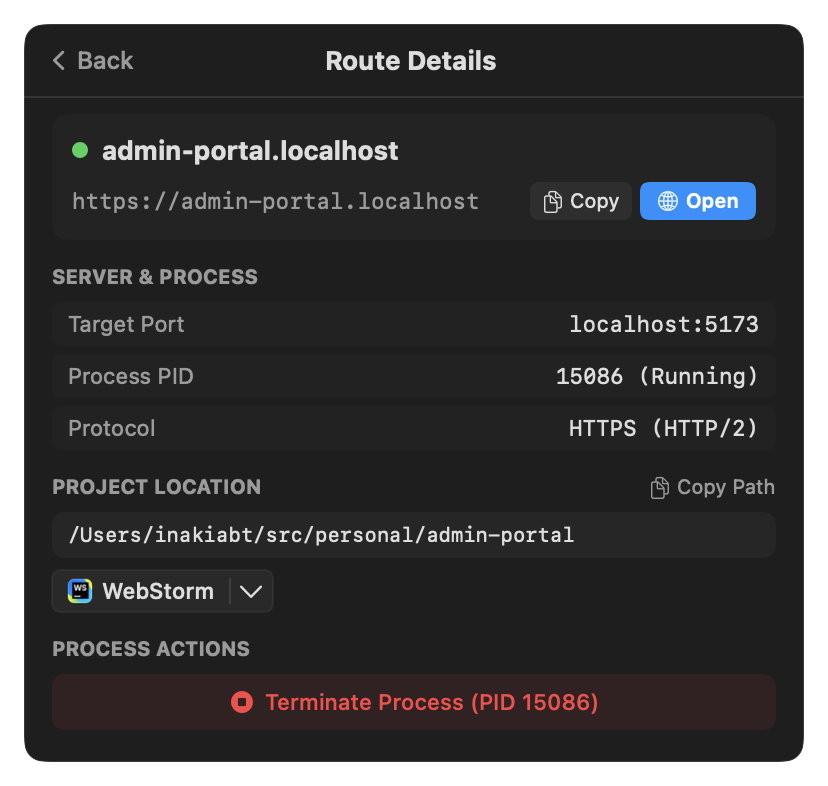
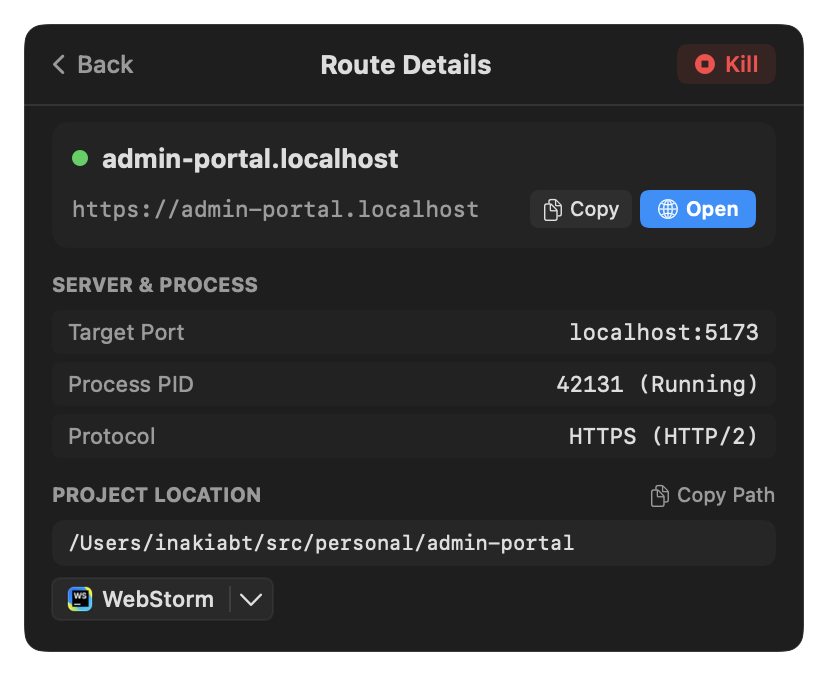
feat(ui): move kill button to header bar in route detail view

diff --git a/Sources/Portlessman/Views/RouteDetailView.swift b/Sources/Portlessman/Views/RouteDetailView.swift
@@ -35,9 +35,29 @@ struct RouteDetailView: View {
 
                 Spacer()
 
-                // Spacer to balance the back button
-                Color.clear
-                    .frame(width: 44, height: 16)
+                if route.pid > 0 {
+                    Button {
+                        store.killProcess(for: route)
+                        onBack()
+                    } label: {
+                        HStack(spacing: 4) {
+                            Image(systemName: "stop.circle.fill")
+                                .font(.system(size: 10))
+                            Text("Kill")
+                                .font(.system(size: 11, weight: .semibold))
+                        }
+                        .padding(.horizontal, 8)
+                        .padding(.vertical, 3)
+                        .background(Color.red.opacity(0.12))
+                        .foregroundStyle(Color.red)
+                        .cornerRadius(5)
+                    }
+                    .buttonStyle(.plain)
+                    .help("Kill process (PID \(route.pidString))")
+                } else {
+                    Color.clear
+                        .frame(width: 44, height: 16)
+                }
             }
             .padding(.horizontal, 14)
             .padding(.vertical, 10)
@@ -194,34 +214,6 @@ struct RouteDetailView: View {
                                 OpenInEditorMenu(path: cwd)
                                 Spacer()
                             }
-                        }
-                    }
-
-                    // Process Actions (Kill Server)
-                    if route.pid > 0 {
-                        VStack(alignment: .leading, spacing: 6) {
-                            Text("PROCESS ACTIONS")
-                                .font(.system(size: 10, weight: .bold))
-                                .foregroundStyle(.secondary)
-
-                            Button {
-                                store.killProcess(for: route)
-                                onBack()
-                            } label: {
-                                HStack(spacing: 5) {
-                                    Image(systemName: "stop.circle.fill")
-                                        .font(.system(size: 11))
-                                    Text("Terminate Process (PID \(route.pidString))")
-                                        .font(.system(size: 11, weight: .medium))
-                                }
-                                .padding(.horizontal, 10)
-                                .padding(.vertical, 7)
-                                .frame(maxWidth: .infinity)
-                                .background(Color.red.opacity(0.09))
-                                .foregroundStyle(Color.red)
-                                .cornerRadius(6)
-                            }
-                            .buttonStyle(.plain)
                         }
                     }
                 }
